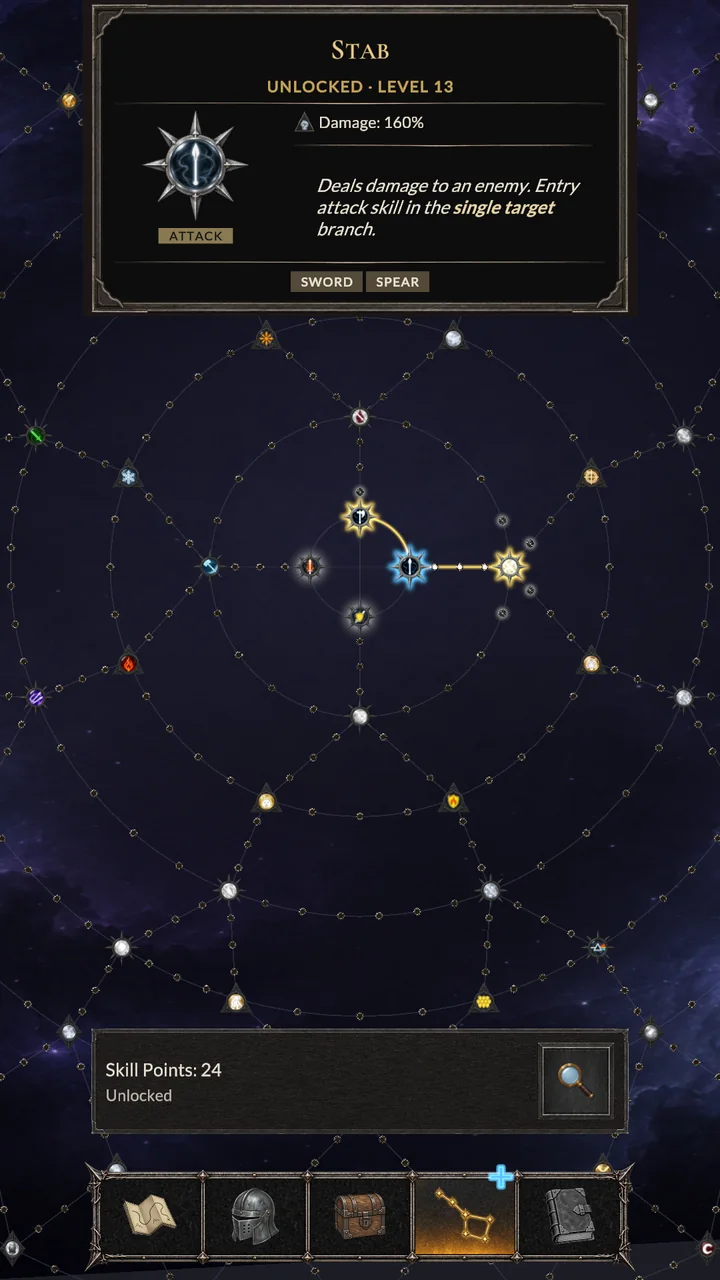
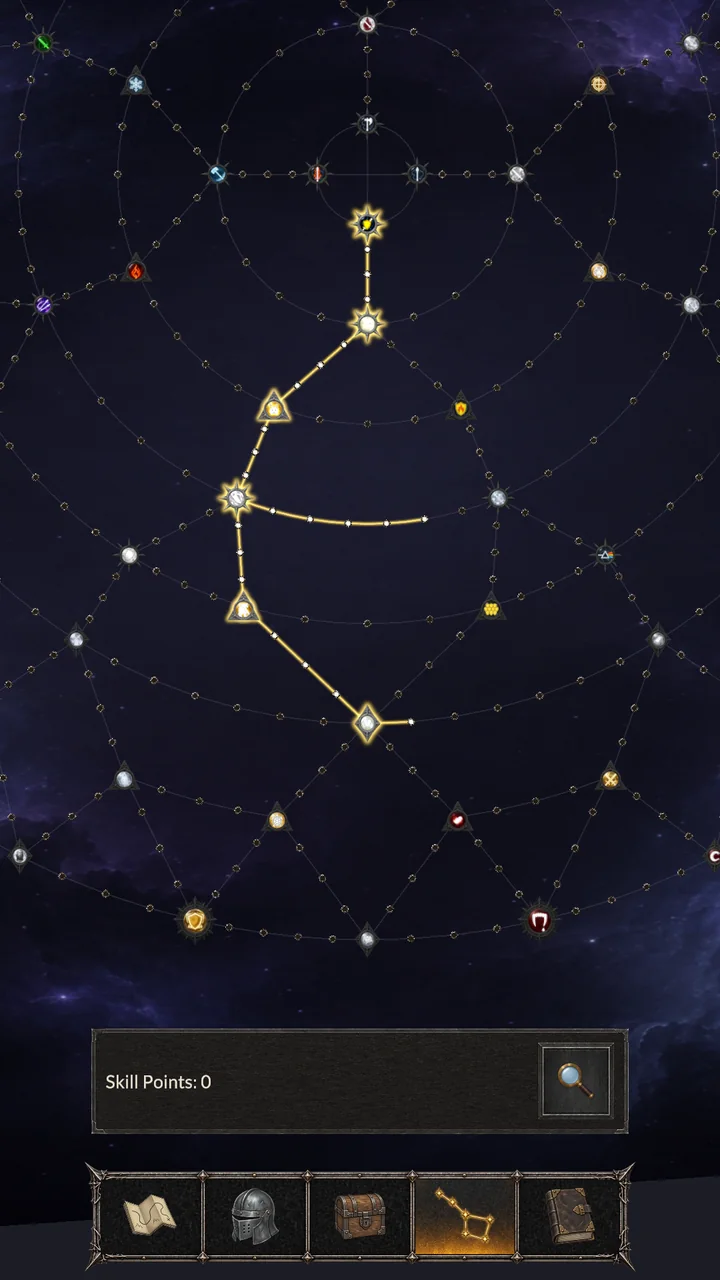
feat(site): the store set of 60306 retaken - skill wheel of a level 27 hero, weapon selected on the paperdoll (TASK-1517)

diff --git a/index.html b/index.html
@@ -96,7 +96,7 @@
         <div class="shots" data-store-shots="1-3">
             <img src="/assets/img/shots/store-01-world-map.webp" alt="The world map of Act I: the town and the fields around it, cleared one by one" width="720" height="1280" loading="lazy">
             <img src="/assets/img/shots/store-02-fight.webp" alt="A fight in progress, every blow read out in the combat log" width="720" height="1280" loading="lazy">
-            <img src="/assets/img/shots/store-03-skill-wheel.webp" alt="The skill wheel, its skills and nodes learned along the way" width="720" height="1280" loading="lazy">
+            <img src="/assets/img/shots/store-03-skill-wheel.webp" alt="The skill wheel of a level 27 hero: six skills and the nodes learned on the way to them" width="720" height="1280" loading="lazy">
         </div>
     </div>
 </section>
@@ -125,7 +125,7 @@
         </div>
     </div>
     <div class="shots" data-store-shots="4-6">
-        <img src="/assets/img/shots/store-04-equipment.webp" alt="The character sheet: the hero's equipment, slot by slot" width="720" height="1280" loading="lazy">
+        <img src="/assets/img/shots/store-04-equipment.webp" alt="The character sheet: the hero's equipment, the selected weapon's values beside it" width="720" height="1280" loading="lazy">
         <img src="/assets/img/shots/store-05-arena.webp" alt="Z'Tirom's arena: the week's table of the heroes the players handed in" width="720" height="1280" loading="lazy">
         <img src="/assets/img/shots/store-06-act-ii-map.webp" alt="Act II: the Desolated Lands beyond the gate, the Pool of Sacrifice waiting" width="720" height="1280" loading="lazy">
     </div>
